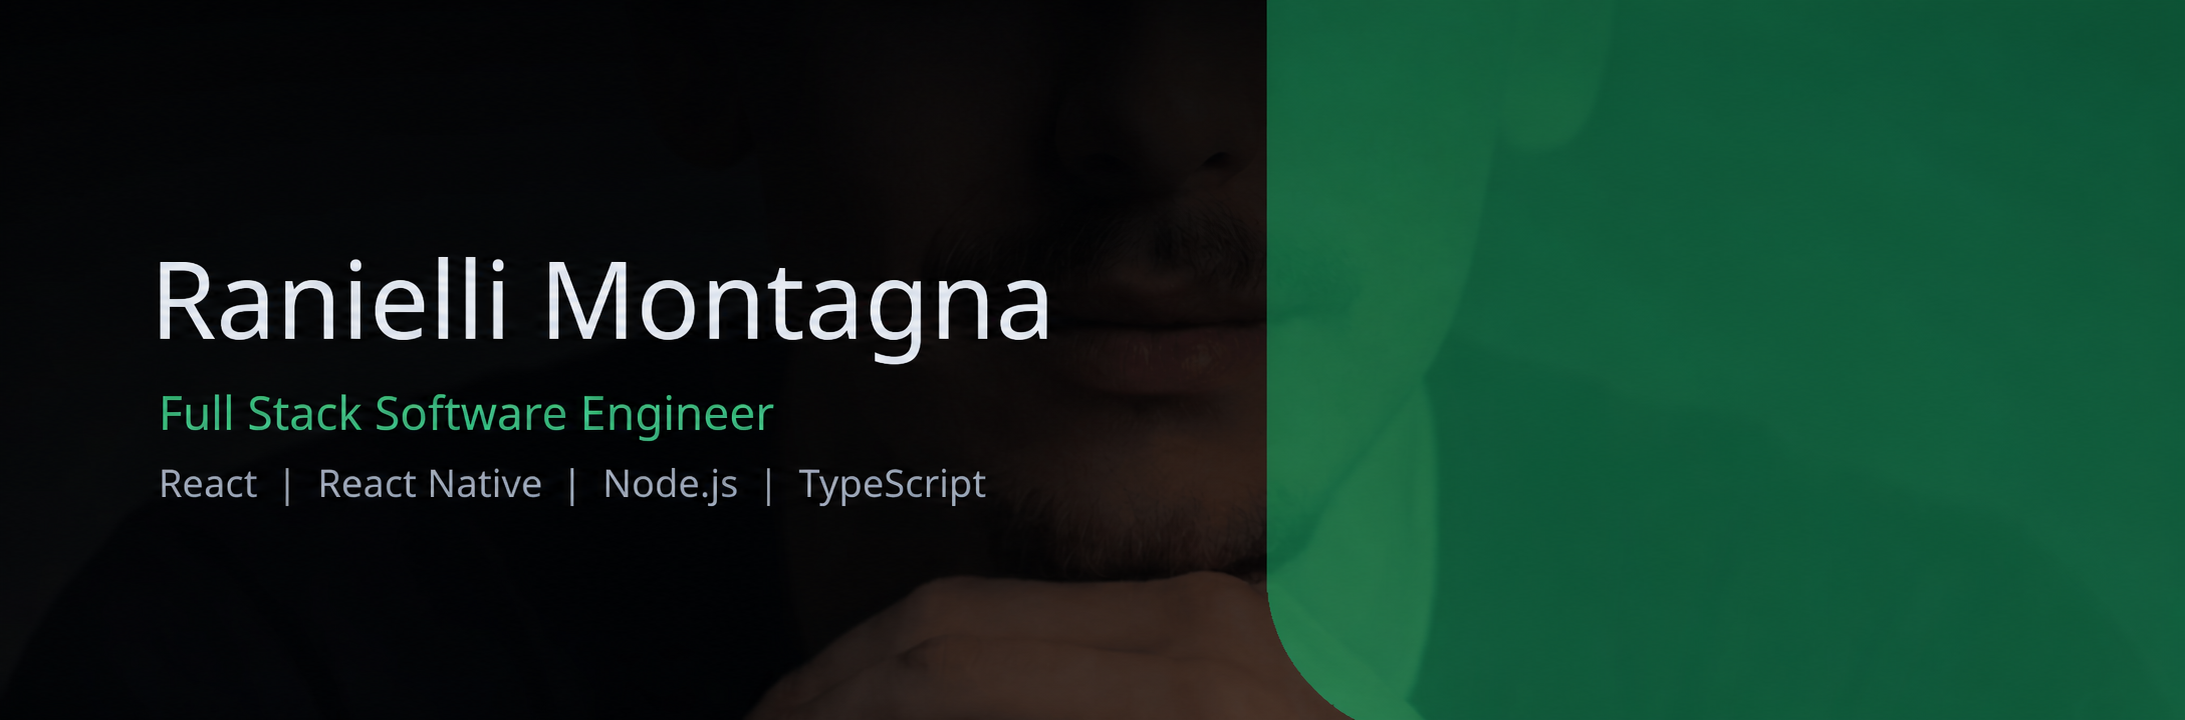
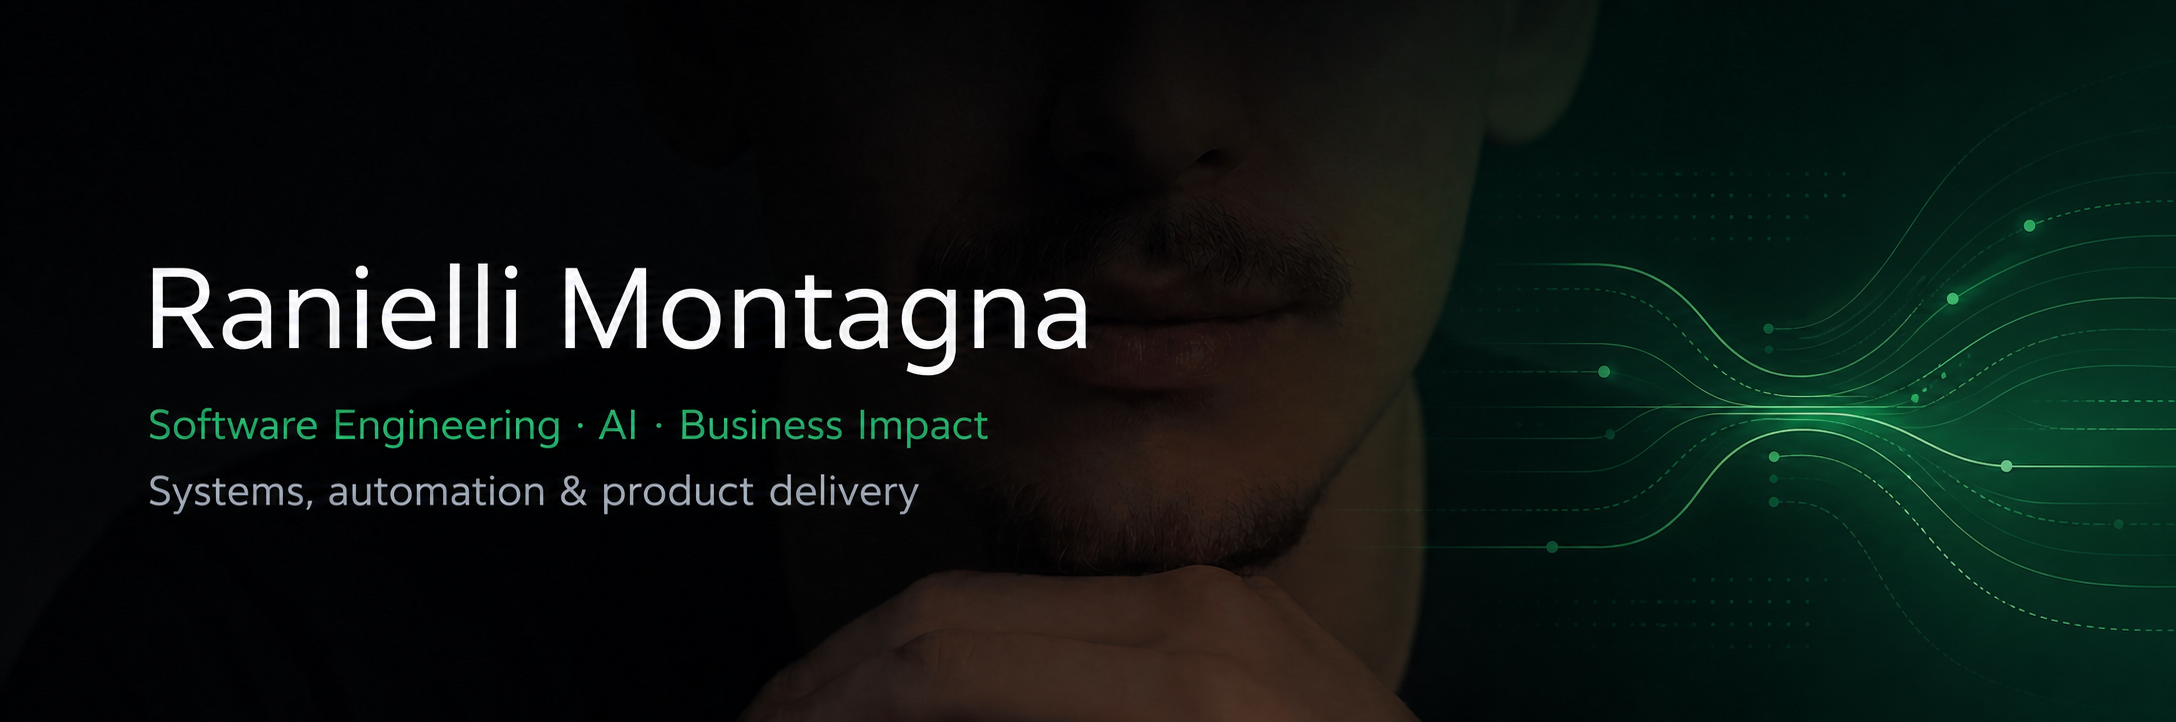
feat: position profile around AI and business impact

diff --git a/README.md b/README.md
@@ -1,12 +1,12 @@
-![Ranielli Montagna - Full Stack Software Engineer](assets/github-profile-banner.png)
+![Ranielli Montagna — Software Engineering, AI and Business Impact](assets/github-profile-banner.png)
 
 # Ranielli Montagna
 
-## Full Stack Software Engineer
+## Software Engineering · AI · Business Impact
 
 [![Typing SVG](https://readme-typing-svg.demolab.com?font=Inter&weight=600&size=22&duration=2600&pause=900&color=22C55E&center=true&vCenter=true&width=820&lines=React+%7C+React+Native+%7C+Node.js+%7C+TypeScript;Web%2C+mobile%2C+APIs+and+micro+frontends;AI%2C+automation+and+developer+tooling)](https://git.io/typing-svg)
 
-I build web and mobile products, REST APIs, micro frontends and product interfaces where architecture, performance, accessibility and user experience need to work together. Today, I work at Lemon Energia, connecting software engineering with business problems, automation and practical AI.
+I build web and mobile products, REST APIs, automation and product systems where architecture, performance, accessibility and business context need to work together. Today, I work at Lemon Energia, connecting software engineering with operational problems, automation and practical AI.
 
 [![Website](https://img.shields.io/badge/website-ranimontagna.com-0D1117?style=for-the-badge&logo=vercel&logoColor=22C55E)](https://ranimontagna.com)
 [![LinkedIn](https://img.shields.io/badge/linkedin-rannimontagna-0D1117?style=for-the-badge&logo=linkedin&logoColor=22C55E)](https://linkedin.com/in/rannimontagna)
@@ -23,9 +23,9 @@ At Lemon Energia, I work at the bridge between the Center of Excellence and busi
 
 At Luizalabs, I worked on solutions for Magalu physical store operations, contributing to inventory and logistics workflows across 1,000+ stores and the daily routine of 1,000+ stock clerks. I also led frontend initiatives in SaaS products, created a Design System adopted across multiple products, implemented quality standards and mentored developers.
 
-Lately, my focus has expanded into AI applied to software development: LLM integrations, automation, agents and Model Context Protocol workflows that improve product delivery and developer productivity.
+My focus now goes beyond shipping features in isolation: I connect business context, software engineering, LLMs, automation, agents and Model Context Protocol workflows to make decisions clearer, operations more efficient and product delivery stronger.
 
-![Animated terminal card](assets/terminal-card.svg)
+![Business, software engineering and AI operating model](assets/terminal-card.svg)
 
 ## What I Build
 
@@ -33,7 +33,8 @@ Lately, my focus has expanded into AI applied to software development: LLM integ
 | --- | --- |
 | Web applications | Product interfaces, dashboards, landing pages, e-commerce and SaaS platforms |
 | Backend and APIs | REST APIs, integrations, authentication, data modeling and scalable services |
-| AI integration | LLM features, chat assistants, workflow automation and custom agents |
+| AI & operational leverage | LLM-enabled workflows, agents, automation, decision support and custom tools |
+| Business enablement | Discovery, requirements, process clarity and technology decisions tied to operations |
 | Mobile products | React Native apps, API integrations, offline flows and operational tooling |
 
 ## Stack
